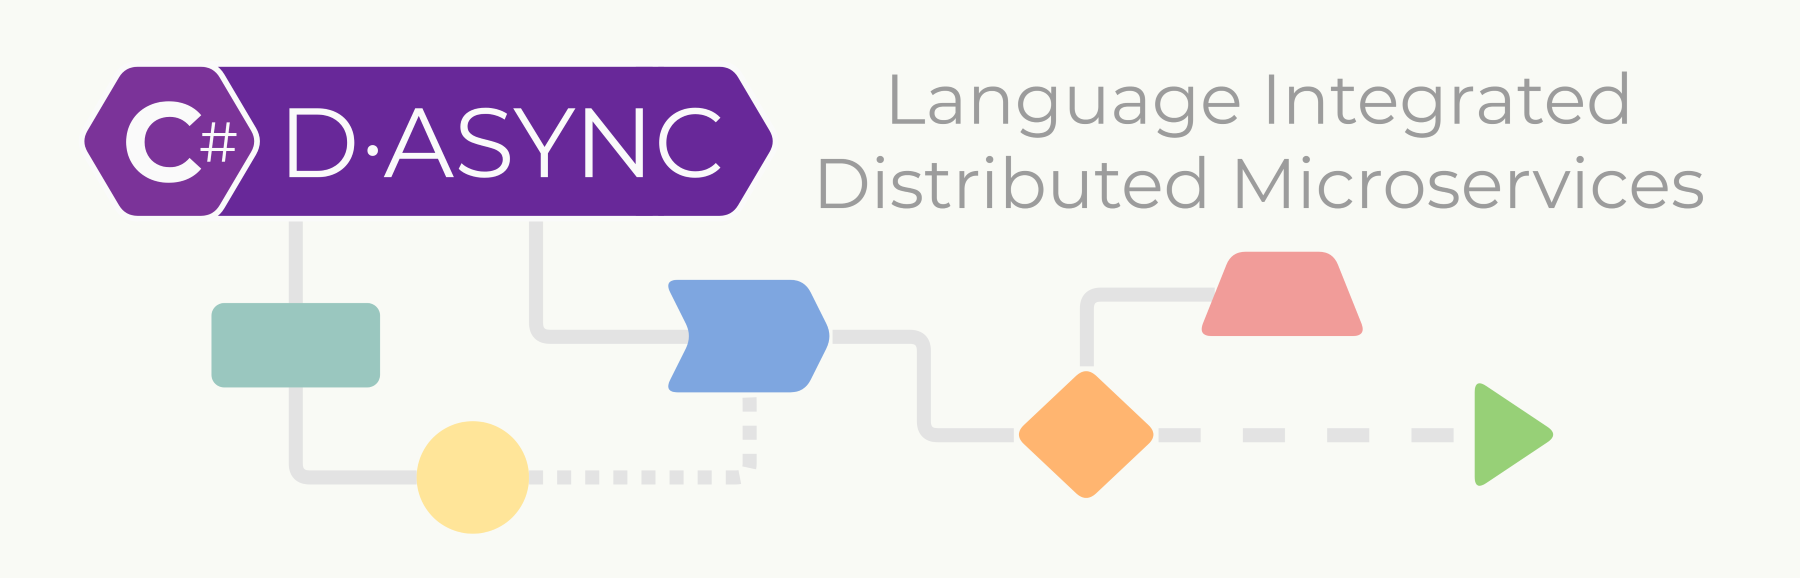
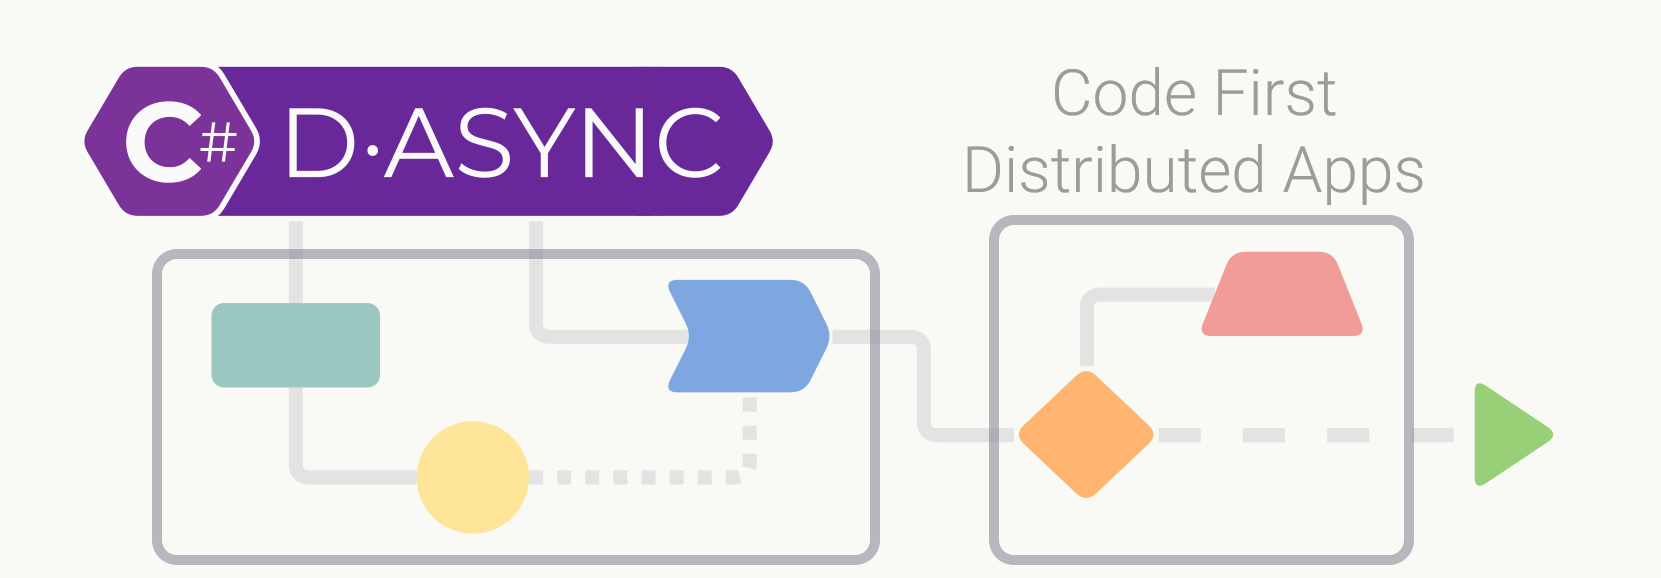
Update readme

Changed region(s): [[0.0307, 0.0934, 0.9518, 0.9965], [0.1842, 0.5294, 0.2456, 0.6851]]

diff --git a/README.md b/README.md
@@ -1,10 +1,11 @@
-![D·ASYNC - Language Integrated Distributed Microservices](dasync-banner.png)
+![D·ASYNC - Code First Distributed Applications](dasync-banner.png)
 
 ## What is D·ASYNC?
 
-D·ASYNC (also D-ASYNC or DASYNC, where D stands for Distributed) is an ambitious framework for writing cloud-native distributed applications in C# language using just its syntax and paradigms of Object-Oriented Programming with the help of built-in support for Task Parallel Library (the async and await keywords).
+D·ASYNC is a framework that allows to model business processes and workflows in C# language itself, focus on the application logic and put infrastructure aside, keep Clean Architecture and delay design decisions, where compiled software runs in a distributed manner from day one. D·ASYNC extends the ideology of Distributed Domain-Driven Design by making the programming language and OOP patterns the first class-citizen (an ultimate façade) for expressing intentions and behavior of your business.
 
-The event-driven design with a persistence mechanism allows microservices to safely communicate with each other and external environment, and to save the execution state without allocation of compute resources, where auto-generated finite state machines from `async` methods are perfect candidates to describe a workflow.
+D·ASYNC technology deeply integrates into the .NET runtime, controls execution of `async` methods (which are compiled to Finite State Machines), saves their state in a persistent storage, uses Message-Oriented Architecture and Event-Driven Design to distribute load across available compute nodes.
+
 
 ## Few Programming Concepts
 
